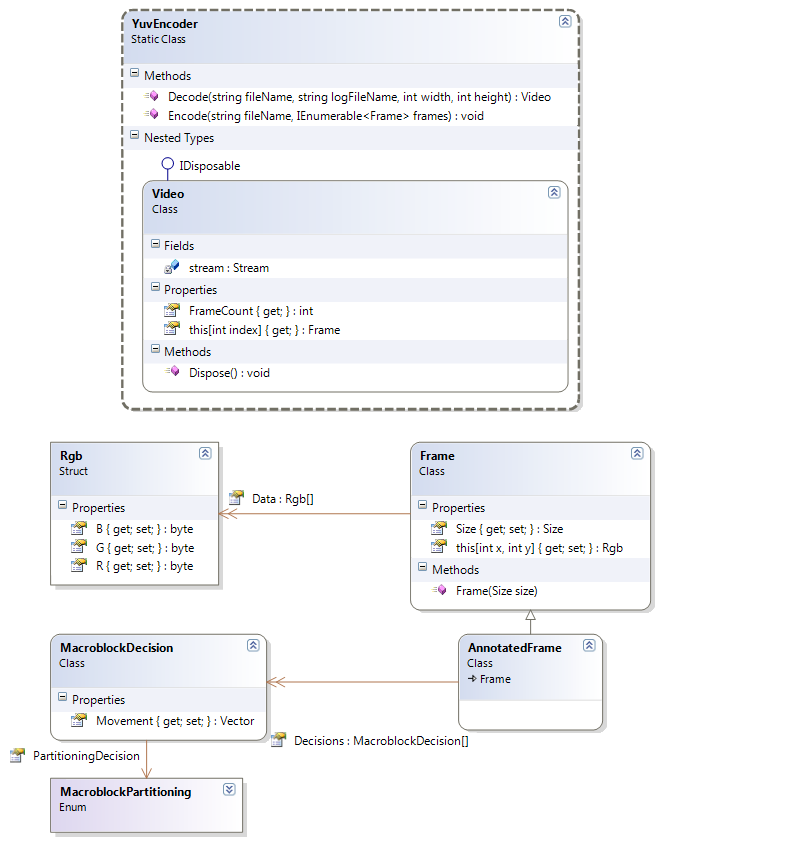
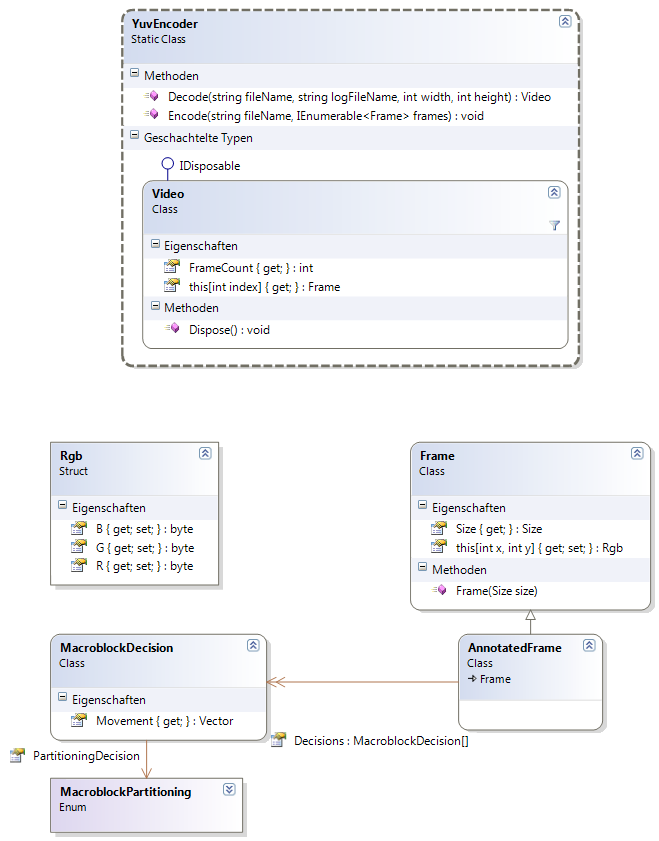
Fix some minor errors, update diagram.

diff --git a/entwurfsheft/YuvKA.VideoModel/videomodel.tex b/entwurfsheft/YuvKA.VideoModel/videomodel.tex
@@ -1,5 +1,5 @@
 \includegraphics[width=\textwidth]{YuvKA.VideoModel/videomodel.png}
-UML-Diagramm, welches die Klassen darstellt, die die unterschiedlichen Framearten bilden, einschließlich ihrer Hilfsklassen. Auch dargestellt ist die Klasse \name{YuvEncoder} mit der inneren Klasse \name{Video}, die Videos vom YUV-Format ins RGB-Format umwandelt, mit der das Programm intern arbeitet.
+Das \name{VideoModel} besteht aus denjenigen Klassen, die die unterschiedlichen Framearten bilden, einschließlich ihrer Hilfsklassen. Außerdem gehört die Klasse \name{YuvEncoder} mit der inneren Klasse \name{Video} dazu, die Videos vom YUV-Format ins RGB-Format umwandelt, mit der das Programm intern arbeitet.
 
 \subsubsection{YuvKA.VideoModel.YuvEncoder}
 
